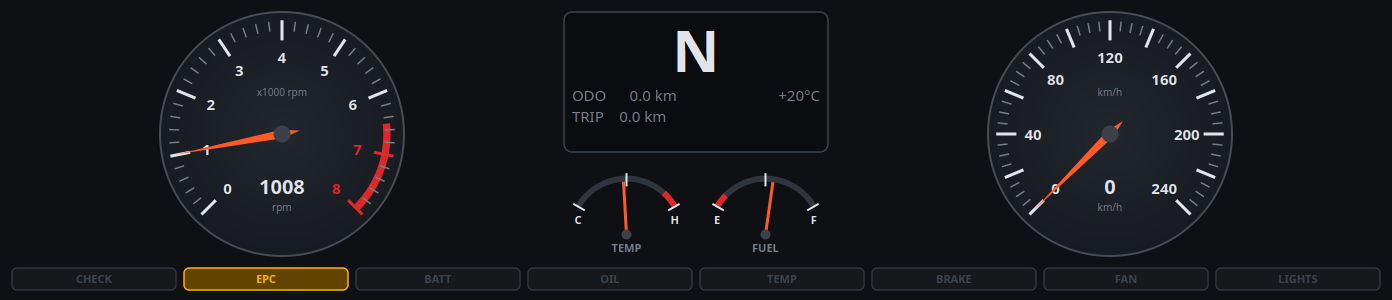
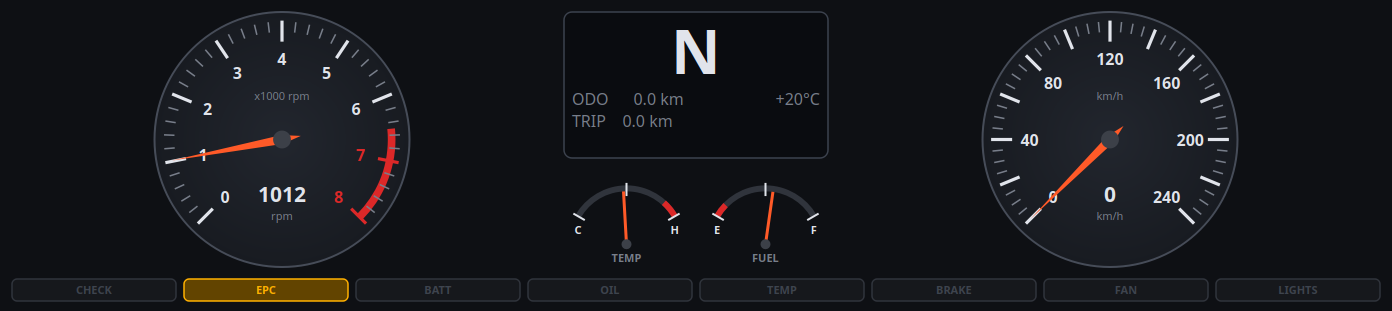
Add trip and odometer reset
Click the cluster's centre display or Environment -> Reset trip to zero
the trip; Environment -> Reset odometer... (with confirmation) zeroes the
odometer and trip. The trip now survives key cycles and restarts like
the odometer. Doc screenshots regenerated (also show the layout fix).

diff --git a/ecusim/ui/gauges.py b/ecusim/ui/gauges.py
@@ -5,7 +5,7 @@ from __future__ import annotations
 
 import math
 
-from PySide6.QtCore import QPointF, QRectF, Qt
+from PySide6.QtCore import QPointF, QRectF, Qt, Signal
 from PySide6.QtGui import QBrush, QColor, QFont, QPainter, QPainterPath, QPen, QRadialGradient
 from PySide6.QtWidgets import QHBoxLayout, QSizePolicy, QVBoxLayout, QWidget
 
@@ -245,10 +245,14 @@ class Lamp(QWidget):
 
 
 class InfoDisplay(QWidget):
-    """Centre display: gear, odometer, trip, outside temperature, messages."""
+    """Centre display: gear, odometer, trip, outside temperature, messages. Clicking it resets the trip."""
+
+    trip_reset_requested = Signal()
 
     def __init__(self, parent: QWidget | None = None):
         super().__init__(parent)
+        self.setCursor(Qt.CursorShape.PointingHandCursor)
+        self.setToolTip("Click to reset the trip")
         self.gear = "N"
         self.odometer = 0.0
         self.trip = 0.0
@@ -256,6 +260,11 @@ class InfoDisplay(QWidget):
         self.message = ""
         self.message_color = AMBER
         self.setMinimumSize(150, 100)
+
+    def mouseReleaseEvent(self, ev) -> None:  # noqa: N802
+        if ev.button() == Qt.MouseButton.LeftButton and self.rect().contains(ev.position().toPoint()):
+            self.trip_reset_requested.emit()
+        super().mouseReleaseEvent(ev)
 
     def paintEvent(self, _ev) -> None:  # noqa: N802
         p = QPainter(self)

diff --git a/ecusim/ui/panels.py b/ecusim/ui/panels.py
@@ -449,10 +449,31 @@ class EnvironmentPanel(QWidget):
         rl = QVBoxLayout(resets)
         rl.addWidget(cold)
         rl.addWidget(warm)
+        trip = QPushButton("Reset trip")
+        trip.clicked.connect(ctl.reset_trip)
+        odo = QPushButton("Reset odometer…")
+        odo.clicked.connect(self._reset_odometer)
+        dist = QGroupBox("Distance (the trip also resets by clicking the cluster's centre display)")
+        dl = QHBoxLayout(dist)
+        dl.addWidget(trip)
+        dl.addWidget(odo)
+        dl.addStretch(1)
         lay = QVBoxLayout(self)
         lay.addWidget(box)
         lay.addWidget(resets)
+        lay.addWidget(dist)
         lay.addStretch(1)
+
+    def _reset_odometer(self) -> None:
+        from PySide6.QtWidgets import QMessageBox
+
+        ok = QMessageBox.question(
+            self, "Reset odometer",
+            "Set the odometer and the trip to 0 km?\n\nThe ECU's own counters (distance since codes cleared, "
+            "distance with the MIL on) are not affected: they reset with Clear codes, as in a real car.",
+        )
+        if ok == QMessageBox.StandardButton.Yes:
+            self.ctl.reset_odometer()
 
     def refresh(self) -> None:
         if not self.fuel.isSliderDown():

diff --git a/ecusim/ui/controller.py b/ecusim/ui/controller.py
@@ -116,6 +116,18 @@ class SimController:
     def set_fuel_pct(self, pct: float) -> None:
         self.runner.submit(lambda s: setattr(s.plant, "fuel_l", s.plant.tank_l * pct / 100.0))
 
+    def reset_trip(self) -> None:
+        self.runner.submit(lambda s: setattr(s.plant.vehicle, "trip_m", 0.0))
+
+    def reset_odometer(self) -> None:
+        """Odometer and trip back to zero (as after fitting a new instrument cluster)."""
+
+        def apply(s: Simulator) -> None:
+            s.plant.vehicle.odometer_m = 0.0
+            s.plant.vehicle.trip_m = 0.0
+
+        self.runner.submit(apply)
+
     def set_time_scale(self, x: float) -> None:
         self.runner.time_scale = x
 
@@ -189,6 +201,7 @@ class SimController:
             new.faults.set(FaultSetting.from_dict(s.to_dict()))
         new.ecu.region = old.ecu.region
         new.plant.vehicle.odometer_m = old.plant.vehicle.odometer_m
+        new.plant.vehicle.trip_m = old.plant.vehicle.trip_m
         new.plant.fuel_l = old.plant.fuel_l
         old.driver.key = "off"
         old.ecu.step(old.dt, old.readings, "off")  # end the drive cycle properly

diff --git a/tests/test_ui.py b/tests/test_ui.py
@@ -116,6 +116,22 @@ def test_controller_resets_keep_odometer_and_trims(app):
         ctl.shutdown()
 
 
+def test_trip_and_odometer_reset(app, win):
+    ctl = win.ctl
+    ctl.runner.submit(lambda s: (setattr(s.plant.vehicle, "odometer_m", 12345.0),
+                                 setattr(s.plant.vehicle, "trip_m", 678.0)))
+    pump(app, 0.1)
+    ctl.warm_restart()  # the trip survives a key cycle, like the odometer
+    pump(app, 0.2)
+    assert ctl.current_sim.plant.vehicle.trip_m == pytest.approx(678.0, abs=1.0)
+    info = win.cluster.info
+    QTest.mouseClick(info, Qt.MouseButton.LeftButton, pos=info.rect().center())
+    assert wait_for(app, lambda: ctl.current_sim.plant.vehicle.trip_m == 0.0, 1.0)
+    assert ctl.current_sim.plant.vehicle.odometer_m == pytest.approx(12345.0, abs=1.0)
+    ctl.reset_odometer()
+    assert wait_for(app, lambda: ctl.current_sim.plant.vehicle.odometer_m == 0.0, 1.0)
+
+
 def test_hand_throttle_holds_gas(app, win):
     ctl = win.ctl
     sim_pedal = lambda: ctl.call(lambda s: s.driver.pedal)  # noqa: E731

diff --git a/ecusim/persistence.py b/ecusim/persistence.py
@@ -55,7 +55,7 @@ def capture(sim: Simulator, info: VehicleInfo) -> tuple[dict, dict]:
         "version": VERSION,
         "saved_at": time.time(),
         "ecu": sim.ecu.export_kam(),
-        "vehicle": {"odometer_m": p.vehicle.odometer_m, "fuel_l": p.fuel_l},
+        "vehicle": {"odometer_m": p.vehicle.odometer_m, "trip_m": p.vehicle.trip_m, "fuel_l": p.fuel_l},
         "thermal": {
             "ambient_c": sim.env.ambient_c,
             "baro_kpa": sim.env.baro_kpa,
@@ -124,6 +124,7 @@ class StateStore:
                 sim.readings = sim.sensors.update(sim.dt, sim.plant, sim.ecu.act, sim.driver)
             veh = kam.get("vehicle", {})
             sim.plant.vehicle.odometer_m = float(veh.get("odometer_m", 0.0))
+            sim.plant.vehicle.trip_m = float(veh.get("trip_m", 0.0))
             sim.plant.fuel_l = float(veh.get("fuel_l", sim.plant.fuel_l))
             sim.ecu.import_kam(kam.get("ecu", {}))
         if nvm:

diff --git a/tests/test_diagnostics.py b/tests/test_diagnostics.py
@@ -170,6 +170,7 @@ def test_persistence_roundtrip_and_battery_disconnect(tmp_path):
     assert dtc.confirmed == ["P0303"] and dtc.permanent == ["P0303"] and dtc.freeze_frame.code == "P0303"
     assert 75.0 < restored.plant.thermal.coolant_c < 90.0  # cooled for 10 minutes
     assert restored.plant.vehicle.odometer_m == pytest.approx(rig.sim.plant.vehicle.odometer_m)
+    assert restored.plant.vehicle.trip_m == pytest.approx(rig.sim.plant.vehicle.trip_m)
 
     later = StateStore.build_sim(k2, n2, now=kam["saved_at"] + 24 * 3600.0)
     assert later.plant.thermal.coolant_c == pytest.approx(20.0, abs=0.5)

diff --git a/ecusim/ui/main_window.py b/ecusim/ui/main_window.py
@@ -69,6 +69,7 @@ class MainWindow(QMainWindow):
 
         self.cluster = Cluster()
         self.cluster.setMinimumHeight(220)
+        self.cluster.info.trip_reset_requested.connect(ctl.reset_trip)
         self.driver = DriverPanel()
         # Driver controls scroll instead of being squeezed (and drawn on top of each other) on small screens
         self.driver_scroll = QScrollArea()

diff --git a/docs/USAGE.md b/docs/USAGE.md
@@ -50,7 +50,7 @@ To drive it for the first time:
 2. Press and **hold START** (or hold the **K** key) until the engine runs, about one second, then let go.
 3. Watch the rev counter flare and settle to idle.
 
-What the car has learned and stored (fuel trims, trouble codes, readiness, odometer) is kept when you close the
+What the car has learned and stored (fuel trims, trouble codes, readiness, odometer and trip) is kept when you close the
 program, the way a real car's ECU keeps it with the battery connected. It is stored in `~/.local/share/ecusim`
 (Windows: `%APPDATA%\ecusim`). Start with `--no-state` for a clean car that forgets everything on exit.
 
@@ -72,7 +72,7 @@ program, the way a real car's ECU keeps it with the battery connected. It is sto
 
 | Area | What it is |
 |---|---|
-| **Instrument cluster** (top) | Rev counter, speedometer, coolant and fuel gauges, gear, odometer and trip, outside temperature, and warning lamps. |
+| **Instrument cluster** (top) | Rev counter, speedometer, coolant and fuel gauges, gear, odometer and trip, outside temperature, and warning lamps. Click the centre display to reset the trip. |
 | **Driver controls** (left) | Ignition key, clutch, brake and gas pedals, hand throttle, gear lever and switches. |
 | **Tabs** (right) | Live data, Charts, Faults, Diagnostics, Monitors, CAN, Environment and Vehicle info. |
 | **Status bar** (bottom) | ECU state (off, key on, cranking, running), fuel system status, simulated time, CAN connection. |
@@ -169,6 +169,9 @@ follow a request and its multi-frame answer.
 **Environment.** Outside temperature, air pressure (altitude), road grade, fuel level and time acceleration.
 **Cold soak (overnight at ambient)** and **Hot soak (stopped a few minutes ago)** reset the engine temperatures.
 Both keep the odometer, the fuel and the learned trims.
+**Reset trip** sets the trip to 0 (so does clicking the centre display of the cluster). **Reset odometer…** sets
+the odometer and the trip to 0 after asking. Neither touches the ECU's own OBD counters (distance since codes
+cleared, distance with the MIL on): those reset with *Diagnostics → Clear codes*, as in a real car.
 
 ![Environment tab](images/environment_tab.png)
 
